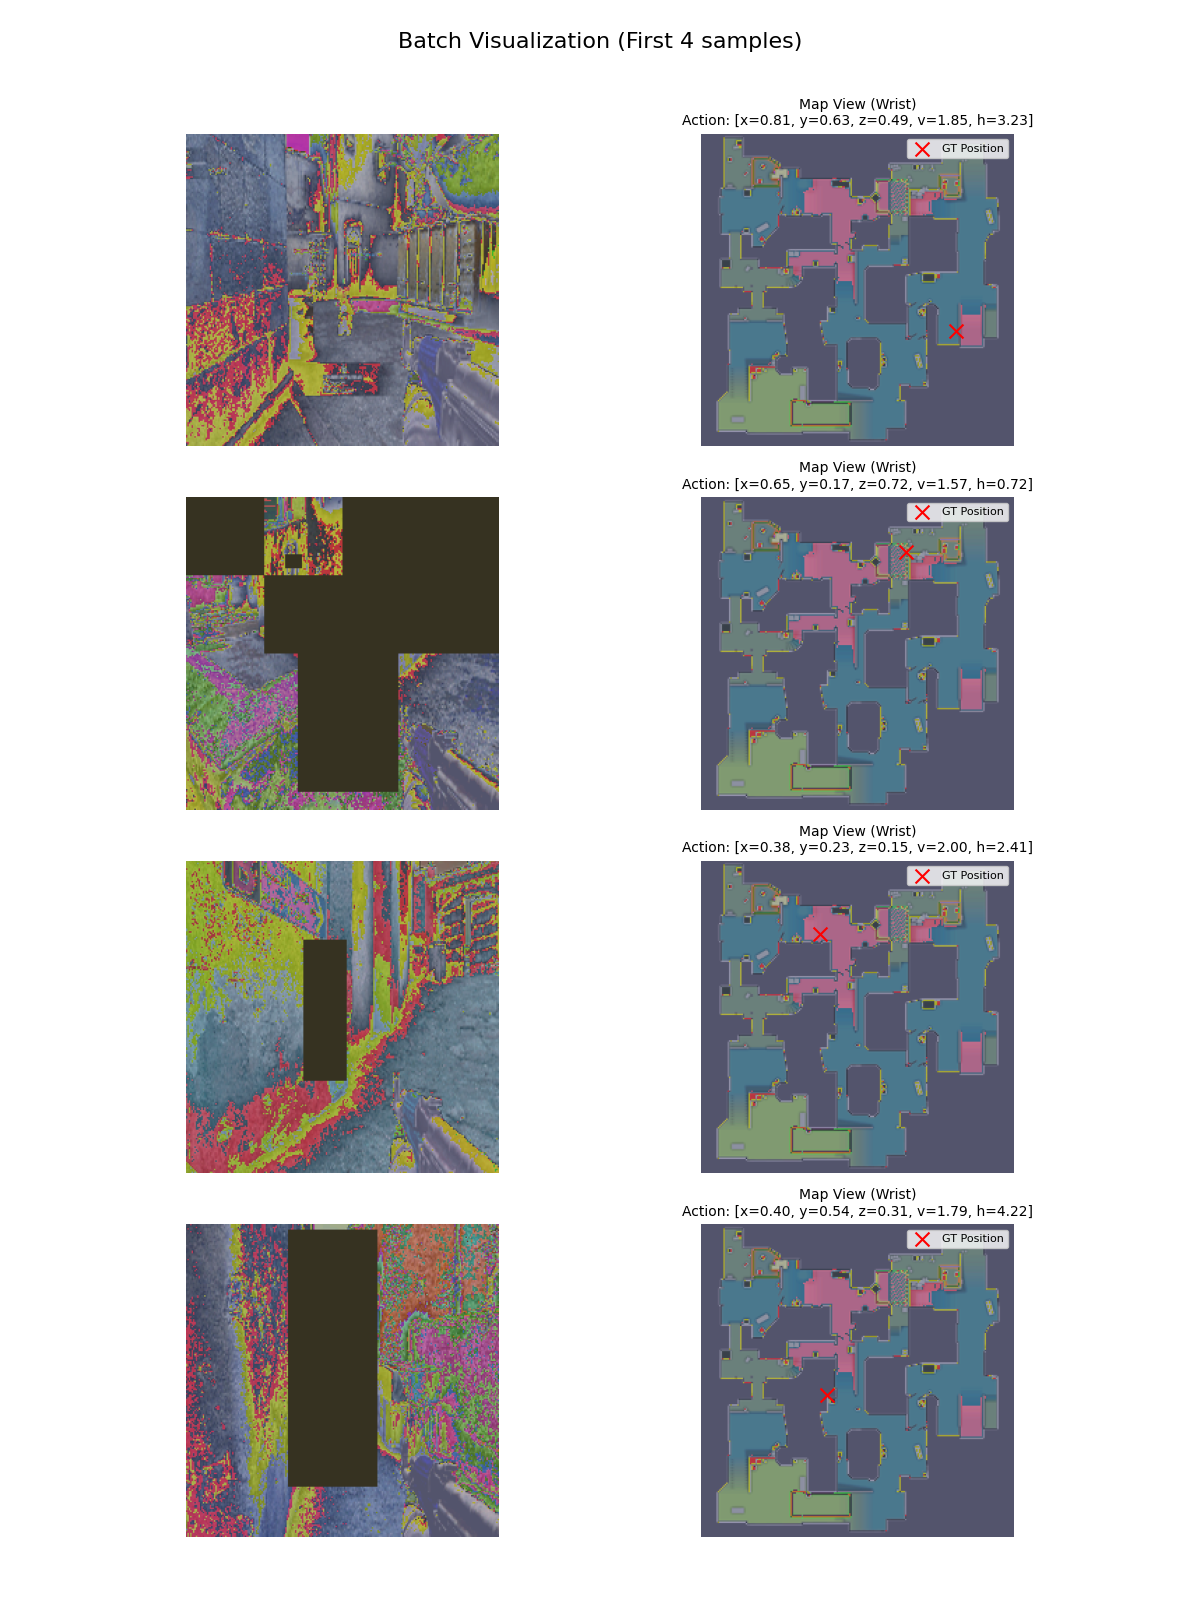
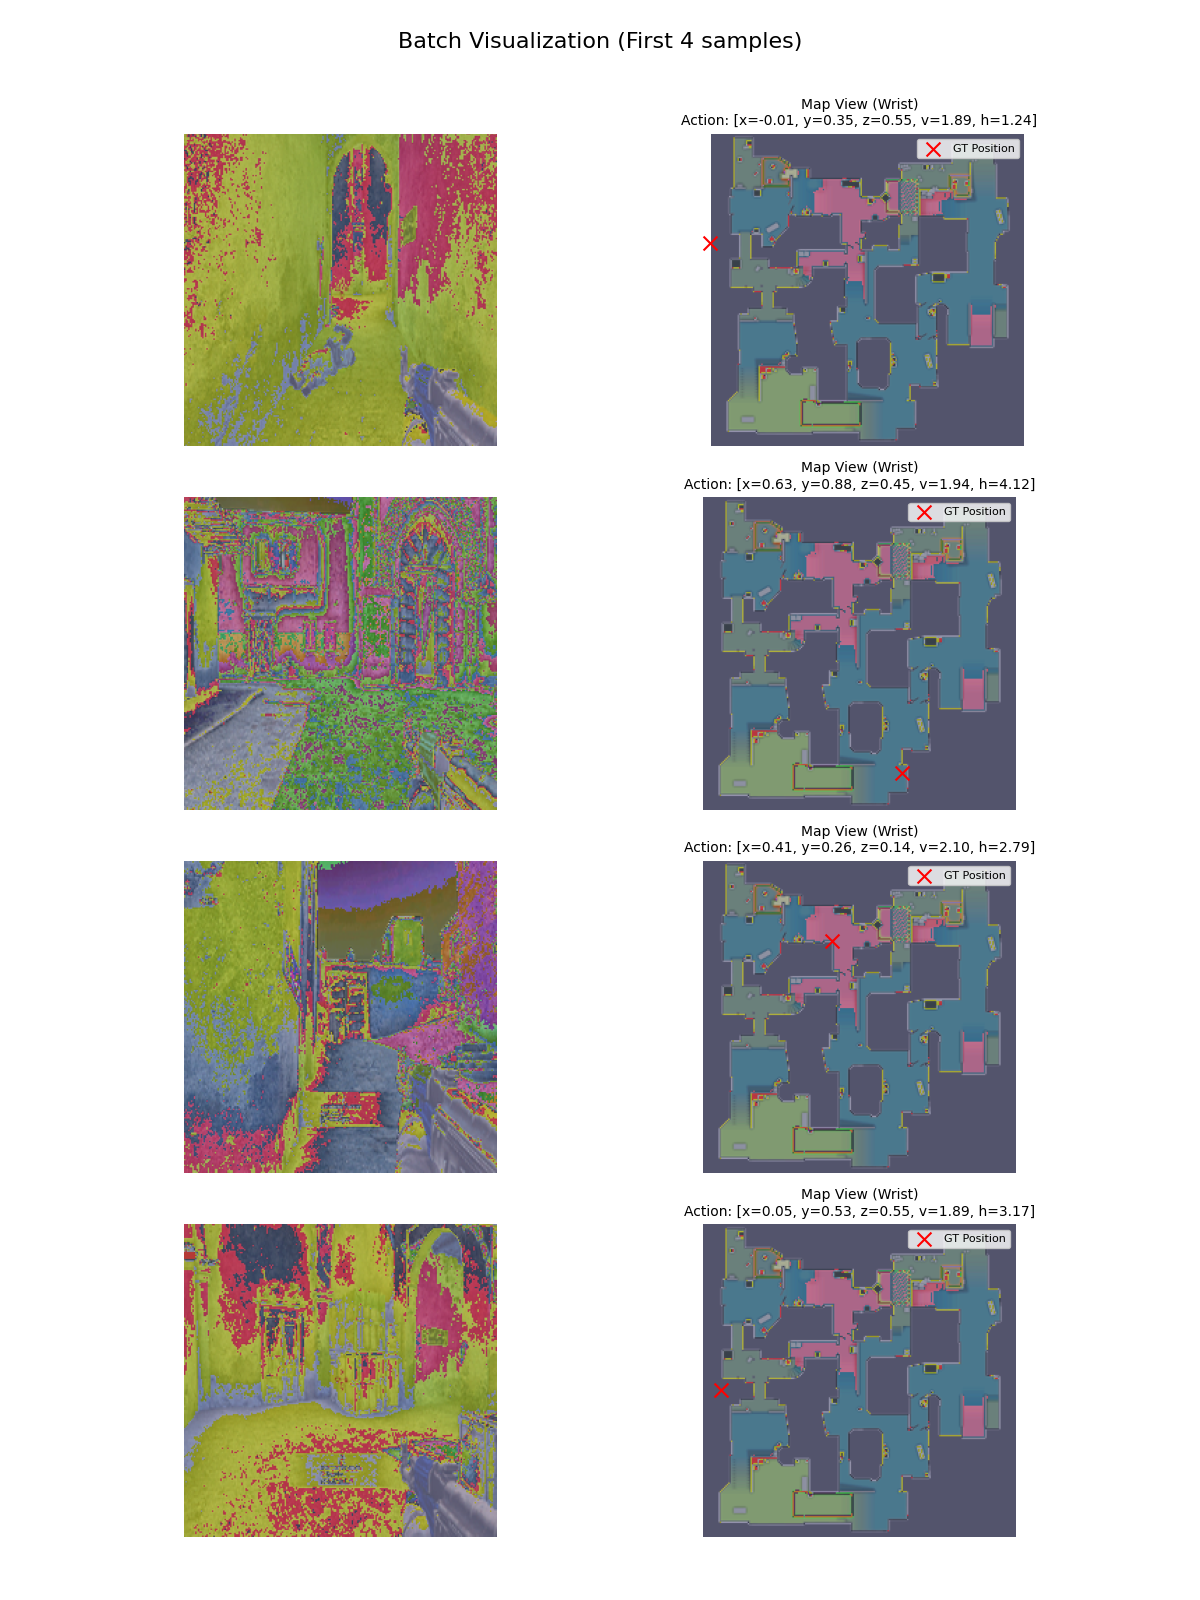
@21: CSGO_CONFIG to 65 training

diff --git a/check_data_size_remove.py b/check_data_size_remove.py
@@ -1,0 +1,95 @@
+import os
+import shutil
+from pathlib import Path
+from typing import List
+
+# ==============================================================================
+# 1. 配置参数
+# ==============================================================================
+
+# [!!! 必须修改 !!!] 您的数据根目录 (包含 'de_dust2', 'de_inferno' 等地图文件夹的父目录)
+DATA_ROOT = "data/processed_data"
+
+# 最小文件大小阈值 (单位：字节)。小于此值的文件将被移动。
+SIZE_THRESHOLD_BYTES = 10000
+
+# [!!! 新增 !!!] 隔离目录路径 (将创建在脚本运行目录下)
+QUARANTINE_DIR = Path("data/processed_data/quarantine_small_imgs")
+
+# ==============================================================================
+
+def filter_and_move_small_images(data_root: str, threshold: int, quarantine_dir: Path):
+    """
+    遍历目录，检查文件大小，并将小于阈值的图片移动到隔离目录，同时保留 map/imgs 结构。
+    """
+    data_root_path = Path(data_root)
+    total_checked = 0
+    total_moved = 0
+
+    # [新增] 创建隔离目录的根目录
+    quarantine_dir.mkdir(exist_ok=True)
+
+    print(f"--- 任务配置 ---")
+    print(f"根目录: {data_root_path}")
+    print(f"大小阈值: {threshold / 1024:.2f} KB")
+    print(f"隔离目录: {quarantine_dir.resolve()}")
+    print("----------------")
+
+    # 查找所有地图目录
+    map_dirs = [d for d in data_root_path.iterdir() if d.is_dir()]
+
+    if not map_dirs:
+        print(f"❌ 未找到任何子目录 (地图文件夹) 在 {data_root_path} 下。")
+        return
+
+    for map_dir in map_dirs:
+        imgs_path = map_dir / "imgs"
+
+        if not imgs_path.is_dir():
+            print(f"跳过 {map_dir.name}：未找到 imgs 目录。")
+            continue
+
+        print(f"\n正在检查地图: {map_dir.name}")
+
+        # 定义该地图的隔离子目录 (例如 quarantine_small_files/de_dust2/imgs)
+        dest_map_sub_path = quarantine_dir / map_dir.name / "imgs"
+        dest_map_sub_path.mkdir(parents=True, exist_ok=True)
+
+
+        for file_path in list(imgs_path.iterdir()): # 使用 list 复制，以便在迭代时移动文件
+            if file_path.is_file() and file_path.suffix.lower() in ['.png', '.jpg', '.jpeg']:
+                total_checked += 1
+
+                file_size = os.path.getsize(file_path)
+                file_size_kb = file_size / 1024
+
+                if file_size < threshold:
+                    total_moved += 1
+
+                    try:
+                        # [!!! 核心移动操作 !!!]
+                        shutil.move(str(file_path), str(dest_map_sub_path / file_path.name))
+
+                        # [!! 打印文件大小和名称 !!]
+                        print(f"  [移动] ⬇ {file_path.name:<30} ({file_size_kb:.2f} KB) -> 成功隔离")
+
+                    except OSError as e:
+                        print(f"  [错误] ❌ 无法移动文件 {file_path.name}: {e}")
+                else:
+                    # 打印正常文件的大小 (可选，但有助于验证)
+                    print(f"  [保留] ✅ {file_path.name:<30} ({file_size_kb:.2f} KB)")
+
+
+    # --- 打印总结 ---
+    print("\n" + "=" * 50)
+    print(f"✅ 检查完成。总共检查了 {total_checked} 个文件。")
+    print(f"总共移动到隔离区的文件数量: {total_moved} 个。")
+    print(f"隔离区路径: {quarantine_dir.resolve()}")
+    print("=" * 50)
+
+
+if __name__ == "__main__":
+    if not Path(DATA_ROOT).exists():
+         print("🛑 错误: 请先修改脚本顶部的 `DATA_ROOT` 变量指向您正确的目录。")
+    else:
+        filter_and_move_small_images(DATA_ROOT, SIZE_THRESHOLD_BYTES, QUARANTINE_DIR)

diff --git a/check_remove_change_json.py b/check_remove_change_json.py
@@ -1,0 +1,97 @@
+import os
+import json
+from pathlib import Path
+from typing import List
+import shutil
+
+# ==============================================================================
+# 1. 配置参数 (请根据您的实际路径进行修改)
+# ==============================================================================
+
+# [!!! 必须修改 !!!] 您的数据根目录 (包含所有地图文件夹的父目录)
+DATA_ROOT = "data/processed_data"
+
+# [!!! 必须修改 !!!] 需要处理的地图列表 (例如，您的训练地图)
+MAP_IDENTIFIERS = ["de_dust2", "de_mirage", "de_inferno", "de_nuke"]
+
+# 图像文件的扩展名
+IMAGE_EXTENSION = ".png"
+# JSON 文件名
+METADATA_FILENAME = "positions.json"
+
+METADATA_FILENAME_BACKUP = "positions_all.json"
+
+# ==============================================================================
+
+def filter_metadata_by_image_existence(data_root: str, map_names: List[str], extension: str, metadata_filename: str, metadata_filename_backup: str):
+    """
+    遍历指定地图的元数据，检查对应的图像文件是否在原始 'imgs' 文件夹中存在。
+    如果文件不存在 (已被移动)，则删除对应的 JSON 条目，并覆盖原 JSON 文件。
+    """
+    data_root_path = Path(data_root)
+    total_removed = 0
+    total_checked = 0
+
+    print("--- 开始清理 JSON 元数据 ---")
+
+    for map_name in map_names:
+        map_path = data_root_path / map_name
+        json_path = map_path / metadata_filename
+        json_path_backup = map_path / metadata_filename_backup
+        imgs_path = map_path / "imgs" # 图像的原始存放目录
+
+        if not json_path.is_file():
+            print(f"⚠ 跳过 {map_name}：元数据文件 {metadata_filename} 不存在。")
+            continue
+
+        shutil.copy(json_path, json_path_backup)
+
+        # 1. 加载原始元数据
+        with open(json_path, 'r', encoding='utf-8') as f:
+            metadata = json.load(f)
+
+        filtered_metadata = []
+        removed_count = 0
+
+        # 2. 遍历并检查图像文件是否存在
+        for entry in metadata:
+            total_checked += 1
+            file_frame = entry.get('file_frame', None)
+
+            if not file_frame:
+                continue # 跳过结构异常的条目
+
+            # 构造原始图像路径: data_root / map / imgs / file_frame.png
+            image_path = imgs_path / f"{file_frame}{extension}"
+
+            if image_path.is_file():
+                # 文件存在 (未被隔离) -> 保留
+                filtered_metadata.append(entry)
+            else:
+                # 文件缺失 (已被隔离) -> 删除条目
+                removed_count += 1
+
+        # 3. 如果有条目被移除，则覆盖原始 JSON 文件
+        if removed_count > 0:
+            with open(json_path, 'w', encoding='utf-8') as f:
+                json.dump(filtered_metadata, f, indent=4, ensure_ascii=False)
+
+            print(f"✅ Map {map_name}: 成功移除 {removed_count} 个缺失的条目。新样本总数: {len(filtered_metadata)}.")
+            total_removed += removed_count
+        else:
+            print(f"🟢 Map {map_name}: 没有发现缺失的图像条目。JSON 文件未修改。")
+
+    print("\n" + "=" * 50)
+    print(f"✨ JSON 清理完成。总共移除了 {total_removed} 个元数据条目。")
+    print("=" * 50)
+
+
+if __name__ == "__main__":
+    # 请确保您的 MAP_IDENTIFIERS 包含了所有需要处理的地图
+    filter_metadata_by_image_existence(
+        DATA_ROOT,
+        MAP_IDENTIFIERS,
+        IMAGE_EXTENSION,
+        METADATA_FILENAME,
+        METADATA_FILENAME_BACKUP
+    )

diff --git a/check_data_integrality.py b/check_data_integrality.py
@@ -1,0 +1,81 @@
+from pathlib import Path
+import json
+import os
+import sys
+
+# ==============================================================================
+# 1. 配置参数 (请根据您的实际路径进行修改)
+# ==============================================================================
+
+# [!!! 必须修改 !!!] 您的数据根目录 (包含 'de_dust2', 'de_inferno' 等文件夹的父目录)
+DATA_ROOT = "data/processed_data"
+
+# [!!! 必须修改 !!!] 您的元数据 JSON 文件路径
+# 假设您的完整 JSON 文件路径如下：
+METADATA_FILE = "data/processed_data/de_dust2/positions.json"
+
+# 文件名常量
+IMAGE_SUBDIR = "imgs"
+IMAGE_EXTENSION = ".png" # 根据您的文件类型，通常是 .png 或 .jpg
+
+# ==============================================================================
+
+def check_image_existence(metadata_path: str, data_root: str):
+    """
+    遍历元数据 JSON 文件，检查每个 file_frame 对应的图像文件是否在磁盘上存在。
+    """
+    if not os.path.isfile(metadata_path):
+        print(f"❌ 错误: 找不到元数据文件: {metadata_path}")
+        return
+
+    try:
+        with open(metadata_path, 'r', encoding='utf-8') as f:
+             metadata = json.load(f)
+    except Exception as e:
+        print(f"❌ 错误: 无法加载或解析 JSON 文件 {metadata_path}. 错误: {e}")
+        return
+
+    missing_files = []
+    total_checked = 0
+
+    data_root_path = Path(data_root)
+
+    print(f"--- 开始检查 {len(metadata)} 个样本 ---")
+
+    for entry in metadata:
+        total_checked += 1
+
+        try:
+            map_name = entry['map']
+            file_frame = entry['file_frame']
+
+            # 构建完整的图像路径: data_root / map / imgs / file_frame.png
+            expected_path = data_root_path / map_name / IMAGE_SUBDIR / f"{file_frame}{IMAGE_EXTENSION}"
+
+            if not expected_path.is_file():
+                # 记录缺失的文件的预期路径
+                missing_files.append(str(expected_path))
+
+        except KeyError as e:
+            print(f"⚠ 警告: JSON 结构错误，缺少键 {e}。跳过此条目。")
+            continue
+
+    # --- 打印总结 ---
+    print("=" * 40)
+    if not missing_files:
+        print(f"✅ 检查完成。在 {total_checked} 个样本中，所有图像文件都存在。")
+    else:
+        print(f"❌ 严重警告: 在 {total_checked} 个样本中，发现 {len(missing_files)} 个缺失文件。")
+        print("--- 缺失文件路径示例 ---")
+        for path in missing_files:
+            print(f"  {path}")
+        print("---------------------------------------")
+
+    return missing_files
+
+if __name__ == "__main__":
+    if DATA_ROOT == "/path/to/your/data":
+        print("🛑 请先修改脚本顶部的 `DATA_ROOT` 和 `METADATA_FILE` 变量为您的实际路径。")
+        sys.exit(1)
+
+    check_image_existence(METADATA_FILE, DATA_ROOT)

diff --git a/src/openpi/training/config.py b/src/openpi/training/config.py
@@ -1093,6 +1093,55 @@ _CONFIGS = [
     *roboarena_config.get_roboarena_configs(),
 ]
 
+CSGO_CONFIGS = [
+    # CsgoTrainConfig
+    TrainConfig(
+        name="pi05_csgo_exp1",
+        model=pi0_config.Pi0Config(
+            pi05=True,
+            action_horizon=1,
+            action_dim=32,
+            discrete_state_input=False
+        ),
+        data=LeRobotCsgoDataConfig(
+            is_csgo = True,
+            csgo_config = {
+                "debug" : False,
+                "data_dir" : "data/processed_data",
+                "train_maps": ['de_dust2'], #['de_dust2', 'de_inferno', 'de_mirage', 'de_nuke']
+                "val_maps": ['de_dust2'],
+                "test_maps": ['de_dust2'],
+                # "debug_num_train_data": 100000,
+                # "debug_num_val_data": 1000,
+                "map_size": [224, 224],
+                "fps_size": [224, 224],
+                "is_fps_aug": False,
+                "erasing_p": 0.3,
+            },
+            repo_id="physical-intelligence/libero",
+            base_config=DataConfig(prompt_from_task=True),
+            extra_delta_transform=False,
+        ),
+        batch_size=64,
+        lr_schedule=_optimizer.CosineDecaySchedule(
+            warmup_steps=1000,#10_000,
+            peak_lr=2e-5,#5e-5,
+            decay_steps=1_000_000,
+            decay_lr=5e-5,
+        ),
+        optimizer=_optimizer.AdamW(clip_gradient_norm=1.0),
+        ema_decay=0.999,
+        weight_loader=weight_loaders.CheckpointWeightLoader("gs://openpi-assets/checkpoints/pi05_base/params"),
+        # pytorch_weight_path="/home/user/yc57963/.cache/openpi/openpi-assets/checkpoints/pi05_base",#"/path/to/your/pytorch_weight_path",
+        pytorch_weight_path="/home/jiahao/.cache/openpi/openpi-assets/checkpoints/pi05_base",#"/path/to/your/pytorch_weight_path",
+        num_train_steps=10_000,
+        save_interval=2000,
+        wandb_enabled=False,
+    ),
+]
+
+_CONFIGS += CSGO_CONFIGS
+
 if len({config.name for config in _CONFIGS}) != len(_CONFIGS):
     raise ValueError("Config names must be unique.")
 _CONFIGS_DICT = {config.name: config for config in _CONFIGS}

diff --git a/src/openpi/models_pytorch/pi0_pytorch.py b/src/openpi/models_pytorch/pi0_pytorch.py
@@ -110,14 +110,14 @@ class PI0Pytorch(nn.Module):
             precision=config.dtype,
         )
 
-        self.action_in_proj = nn.Linear(32, action_expert_config.width)
-        self.action_out_proj = nn.Linear(action_expert_config.width, 32)
+        self.action_in_proj = nn.Linear(self.config.action_dim, action_expert_config.width)
+        self.action_out_proj = nn.Linear(action_expert_config.width, self.config.action_dim)
 
         if self.pi05:
             self.time_mlp_in = nn.Linear(action_expert_config.width, action_expert_config.width)
             self.time_mlp_out = nn.Linear(action_expert_config.width, action_expert_config.width)
         else:
-            self.state_proj = nn.Linear(32, action_expert_config.width)
+            self.state_proj = nn.Linear(self.config.action_dim, action_expert_config.width)
             self.action_time_mlp_in = nn.Linear(2 * action_expert_config.width, action_expert_config.width)
             self.action_time_mlp_out = nn.Linear(action_expert_config.width, action_expert_config.width)
 

diff --git a/train_csgo.py b/train_csgo.py
@@ -591,7 +591,7 @@ def train_loop(config: _config.TrainConfig):
         else:
             model_path = os.path.join("/home/user/yc57963/.cache/openpi/openpi-assets/checkpoints/pi05_base", "model.safetensors")
         safetensors.torch.load_model(
-            (model.module if isinstance(model, torch.nn.parallel.DistributedDataParallel) else model), model_path
+            (model.module if isinstance(model, torch.nn.parallel.DistributedDataParallel) else model), model_path, strict=False
         )
         logging.info(f"Loaded PyTorch weights from {config.pytorch_weight_path}")
 

diff --git a/record.md b/record.md
@@ -40,3 +40,10 @@
  - 启用uv的.venv环境执行nohup
  `` source .venv/bin/activate; CUDA_VISIBLE_DEVICES=1 nohup python -u train_csgo.py pi05_csgo --exp_name exp0_debug > out.out 2>&1 &``
 
+# exp
+
+## pi05_csgo_exp1
+
+ `` CUDA_VISIBLE_DEVICES=1 uv run train_csgo.py pi05_csgo_exp1 --exp_name pi05_csgo_exp1 ``
+
+
